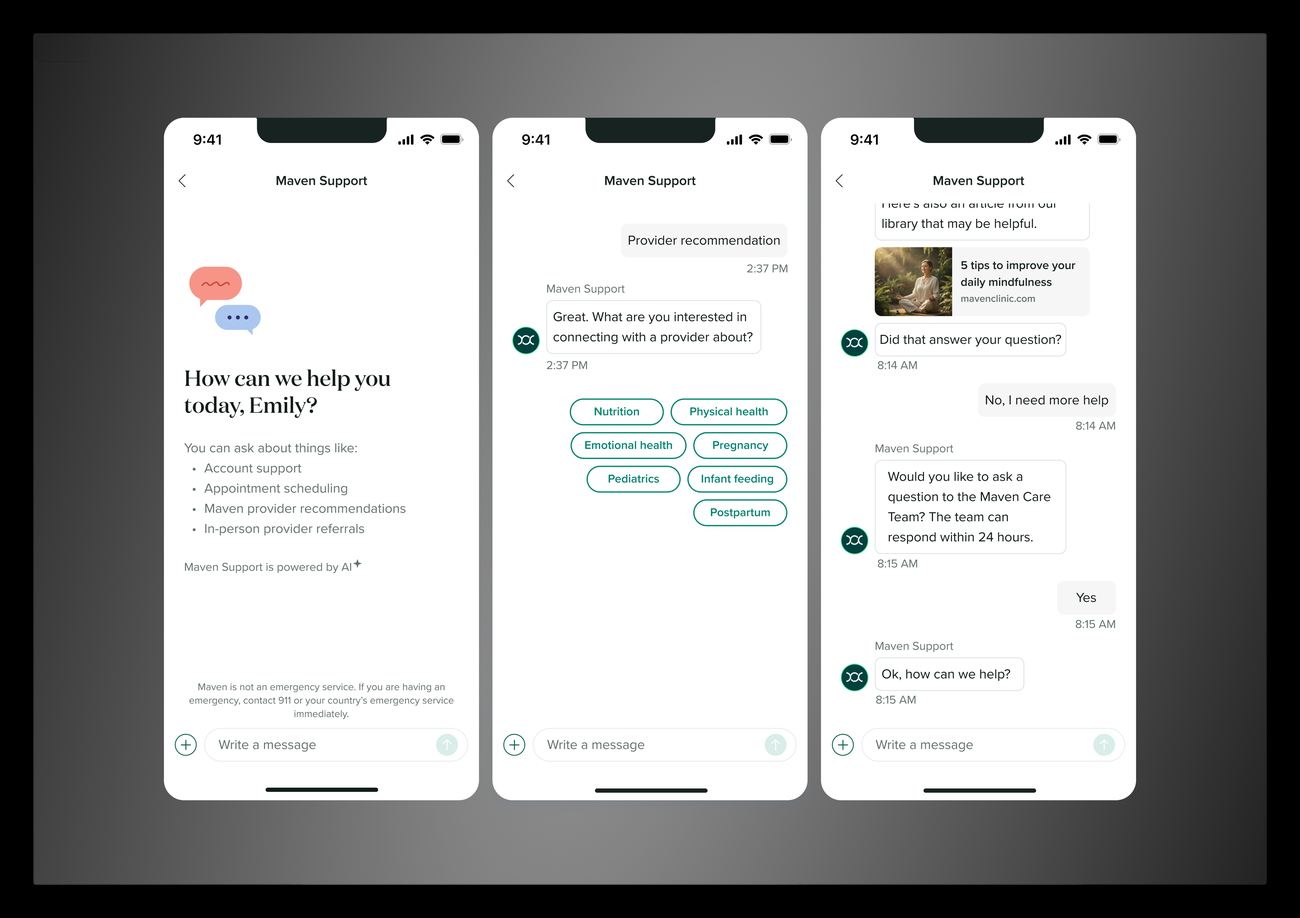
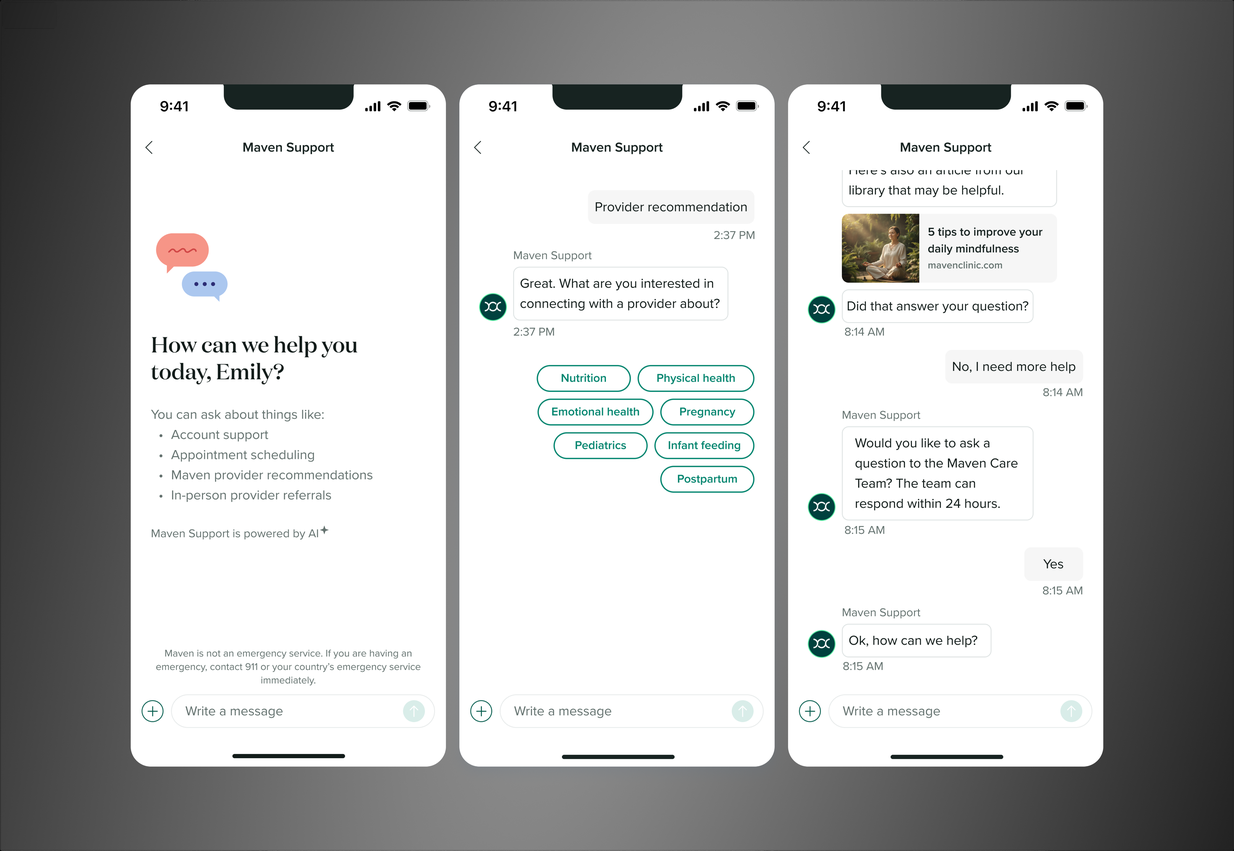
Add shared formatting system across all case study pages
Introduce case-study.css for consistent heading hierarchy (bolder
section headers, mono-uppercase subheads) and a reusable stat block
component pulling key facts into each case study's hero. Break up
long paragraphs, convert one ranked list to bullets, and crop the
letterboxed border out of the support chat hero images.

Changed region(s): [[0.093, 0.093, 0.8989, 0.8989], [0.0, 0.0, 1.0, 1.0]]

diff --git a/fertility-experience.html b/fertility-experience.html
@@ -10,7 +10,7 @@
 <link rel="apple-touch-icon" href="apple-touch-icon.png?v=2">
 <link rel="preconnect" href="https://fonts.googleapis.com">
 <link rel="preconnect" href="https://fonts.gstatic.com" crossorigin>
-<link href="https://fonts.googleapis.com/css2?family=DM+Sans:wght@400;500&family=IBM+Plex+Mono:wght@400;500&display=swap" rel="stylesheet">
+<link href="https://fonts.googleapis.com/css2?family=DM+Sans:wght@400;500;700&family=IBM+Plex+Mono:wght@400;500&display=swap" rel="stylesheet">
 <style>
   :root{
     --ink:#111111;
@@ -433,6 +433,7 @@
     .footer-row .footer-intro{white-space:normal; max-width:38ch;}
   }
 </style>
+<link rel="stylesheet" href="case-study.css">
 </head>
 <body>
 
@@ -464,6 +465,12 @@
       <span class="tag">Oura</span>
       <span class="tag">Fellow</span>
     </div>
+    <div class="cs-stats">
+      <div class="cs-stat"><span class="cs-stat-label">Timeframe</span><span class="cs-stat-value">2025–2026</span></div>
+      <div class="cs-stat"><span class="cs-stat-label">Platform</span><span class="cs-stat-value">iOS · Android · Web</span></div>
+      <div class="cs-stat"><span class="cs-stat-label">Reach</span><span class="cs-stat-value">~30% of Maven users</span></div>
+      <div class="cs-stat"><span class="cs-stat-label">Key metric</span><span class="cs-stat-value">Cycle Tracker onboarding 18% → 24%</span></div>
+    </div>
     <div class="cs-img"><span>Image placeholder</span></div>
   </section>
 
@@ -488,8 +495,8 @@
     <div class="cs-img" style="aspect-ratio:1808/917; margin:32px 0;"><img src="cycle-tracker-homepage-widget.png" alt="Five phone mockups of the Maven Cycle Tracker homepage widget across the menstrual, follicular, ovulation, and luteal phases, plus the pre-onboarding start-tracking state"></div>
     <div class="cs-section" style="padding-top:0;">
       <p>I designed a new card component for Maven's design system, built as a reusable foundation rather than a one-off. I also designed a new way to represent cycle day: a circular indicator that updates dynamically as a user moves through their cycle, instead of a static number or date. Copy stayed short and specific by design, enough to earn a click, not fill space.</p>
-      <p><strong>Not yet onboarded:</strong> made the case for Cycle Tracker's value fast enough to convert someone who hadn't engaged with the feature at all.</p>
-      <p><strong>Already onboarded:</strong> anchored by the circular cycle-day visual, paired with context on what a user might be experiencing at that stage and a phase-specific CTA, so the widget drove action, not just information.</p>
+      <p>Not yet onboarded: made the case for Cycle Tracker's value fast enough to convert someone who hadn't engaged with the feature at all.</p>
+      <p>Already onboarded: anchored by the circular cycle-day visual, paired with context on what a user might be experiencing at that stage and a phase-specific CTA, so the widget drove action, not just information.</p>
 
       <h3>Why it works</h3>
       <p>The widget does three jobs at once: it teaches users what Cycle Tracker actually does and promotes feature adoption, it gives onboarded users a reason to check in regularly, and it routes them to the most relevant action for where they are in their cycle, driving re-engagement.</p>
@@ -499,13 +506,14 @@
       <p>The widget took the top position on the Fertility homepage and has held it since launch, continuing to serve as the primary driver of Cycle Tracker engagement and onboarding for the ~30% of Maven users in that program, lifting Cycle Tracker onboarding from 18% to 24% of users.</p>
 
       <h3>What I'd change</h3>
-      <p><strong>Condition-aware, more sensitive content.</strong> Right now the messaging treats cycle tracking as a physical, mechanical thing. For someone who's been trying to conceive for months without success, that's not the whole experience. There's an emotional weight to it that the current content doesn't account for, and the tone needs to flex for where someone actually is in their journey, not just their cycle day.</p>
-      <p><strong>AI-driven personalization.</strong> The content today is phase-based, not history-based. The next version should use what a user has actually logged: for example, surfacing that they've reported headaches and cramps during this same phase across their last three cycles, instead of only showing generic phase information. That shift, from generic to personalized insight, is where the real value is.</p>
+      <p>Condition-aware, more sensitive content. Right now the messaging treats cycle tracking as a physical, mechanical thing. For someone who's been trying to conceive for months without success, that's not the whole experience. There's an emotional weight to it that the current content doesn't account for, and the tone needs to flex for where someone actually is in their journey, not just their cycle day.</p>
+      <p>AI-driven personalization. The content today is phase-based, not history-based. The next version should use what a user has actually logged: for example, surfacing that they've reported headaches and cramps during this same phase across their last three cycles, instead of only showing generic phase information. That shift, from generic to personalized insight, is where the real value is.</p>
     </div>
 
     <div class="cs-section" style="border-bottom:none; padding-bottom:0;">
       <h2>Initiative 2: Oura Cycle Data Integration</h2>
-      <p>Maven kicked off a partnership with Oura in 2025 to bring wearable data into the platform. I picked up that work and took it further as end-to-end designer, building a member-facing and provider-facing integration that pulls Oura's reproductive cycle data directly into Maven's Cycle Tracker. Oura doesn't have a dedicated fertility or symptom tracker. Maven does. This gave users a way to combine Oura's biometric data with the tracking experience they were already using to try to conceive. The integration is fully built and QA'd, awaiting release.</p>
+      <p>Maven kicked off a partnership with Oura in 2025 to bring wearable data into the platform. I picked up that work and took it further as end-to-end designer, building a member-facing and provider-facing integration that pulls Oura's reproductive cycle data directly into Maven's Cycle Tracker. Oura doesn't have a dedicated fertility or symptom tracker. Maven does.</p>
+      <p>This gave users a way to combine Oura's biometric data with the tracking experience they were already using to try to conceive. The integration is fully built and QA'd, awaiting release.</p>
 
       <h3>The problem</h3>
       <p>Tracking your cycle, whether in Maven or any other app, mostly means logging dates. Dates tell you when your period started. They don't tell you whether or when you actually ovulated, and ovulation is the thing that actually matters for conceiving. Some people turn to ovulation predictor kits to fill that gap, but those come with their own limitations.</p>
@@ -516,10 +524,10 @@
     </div>
     <div class="cs-img" style="aspect-ratio:2195/1220; margin:32px 0;"><img src="oura-cycle-integration.png" alt="Four phone mockups of the Maven x Oura cycle insights update prompt, Oura calendar view with predicted period and fertile window, February 14 cycle day detail sheet, and Oura settings"></div>
     <div class="cs-section" style="padding-top:0;">
-      <p><strong>Ovulation status, made unambiguous.</strong> The core challenge was making sure Fertile Window, Predicted Ovulation, and Confirmed Ovulation were crystal clear: what each one meant, how it showed up as icons in the calendar view, and how it was explained in plain language in the bottom sheet, all while clearly tying the data back to Oura as the source. I designed this new visual and content language to sit naturally inside Maven's existing design system, without a full redesign of Cycle Tracker or the calendar. Since this introduced concepts users hadn't seen before, I ran comprehension testing directly rather than assuming it would land, and all 20 users tested correctly interpreted what the visuals were meant to convey.</p>
-      <p><strong>Settings.</strong> Adding the integration meant new controls users needed to manage, so I took apart the existing Cycle Tracker settings page and rebuilt it to accommodate them cleanly.</p>
-      <p><strong>Provider view in MPractice.</strong> Users weren't the only audience. I designed the equivalent data visualization inside MPractice, Maven's proprietary EMR, where providers already view cycle data. Providers now see the same Oura-sourced cycle data their patient sees, giving care teams the same complete picture during appointments and clinical decision-making.</p>
-      <p><strong>Getting people to connect.</strong> None of this mattered if users didn't know it existed. I designed the promotional action sheets and modals that introduced the integration to members who hadn't yet connected their Oura account, making the case for why they'd want to.</p>
+      <p>Ovulation status, made unambiguous. The core challenge was making sure Fertile Window, Predicted Ovulation, and Confirmed Ovulation were crystal clear: what each one meant, how it showed up as icons in the calendar view, and how it was explained in plain language in the bottom sheet, all while clearly tying the data back to Oura as the source. I designed this new visual and content language to sit naturally inside Maven's existing design system, without a full redesign of Cycle Tracker or the calendar. Since this introduced concepts users hadn't seen before, I ran comprehension testing directly rather than assuming it would land, and all 20 users tested correctly interpreted what the visuals were meant to convey.</p>
+      <p>Settings. Adding the integration meant new controls users needed to manage, so I took apart the existing Cycle Tracker settings page and rebuilt it to accommodate them cleanly.</p>
+      <p>Provider view in MPractice. Users weren't the only audience. I designed the equivalent data visualization inside MPractice, Maven's proprietary EMR, where providers already view cycle data. Providers now see the same Oura-sourced cycle data their patient sees, giving care teams the same complete picture during appointments and clinical decision-making.</p>
+      <p>Getting people to connect. None of this mattered if users didn't know it existed. I designed the promotional action sheets and modals that introduced the integration to members who hadn't yet connected their Oura account, making the case for why they'd want to.</p>
 
       <h3>Accuracy and sign-off</h3>
       <p>Cycle Tracker already pulls from multiple sources: user-logged symptoms, Apple Health, and now Oura. I partnered closely with backend engineering to define how conflicting data between sources would be resolved, and how that resolution would be visualized so users wouldn't see contradictory information with no explanation.</p>
@@ -538,8 +546,8 @@
 
       <h3>What I designed</h3>
       <p>I built two paths into the same offering, since the person discovering it and the person completing it aren't always the same user.</p>
-      <p><strong>For male users:</strong> a flow to learn about the Fellow offering and move straight into ordering the kit, designed to lower the barrier of a topic men are often reluctant to engage with at all.</p>
-      <p><strong>For female fertility users:</strong> a parallel flow to learn about the offering and share it with a male partner, so testing could be introduced by someone already inside the Maven experience instead of requiring the partner to seek it out cold.</p>
+      <p>For male users: a flow to learn about the Fellow offering and move straight into ordering the kit, designed to lower the barrier of a topic men are often reluctant to engage with at all.</p>
+      <p>For female fertility users: a parallel flow to learn about the offering and share it with a male partner, so testing could be introduced by someone already inside the Maven experience instead of requiring the partner to seek it out cold.</p>
     </div>
     <div class="cs-img" style="aspect-ratio:1636/1157; margin:32px 0;"><img src="semen-analysis-partnership.png" alt="Three phone mockups of the Featured Action Card inviting a partner to order a semen analysis kit, the share sheet with fertility stats, and the Tools and Integrations page listing the semen analysis offering"></div>
     <div class="cs-section" style="padding-top:0;">

diff --git a/pcos-nutrition-module.html b/pcos-nutrition-module.html
@@ -10,7 +10,7 @@
 <link rel="apple-touch-icon" href="apple-touch-icon.png?v=2">
 <link rel="preconnect" href="https://fonts.googleapis.com">
 <link rel="preconnect" href="https://fonts.gstatic.com" crossorigin>
-<link href="https://fonts.googleapis.com/css2?family=DM+Sans:wght@400;500&family=IBM+Plex+Mono:wght@400;500&display=swap" rel="stylesheet">
+<link href="https://fonts.googleapis.com/css2?family=DM+Sans:wght@400;500;700&family=IBM+Plex+Mono:wght@400;500&display=swap" rel="stylesheet">
 <style>
   :root{
     --ink:#111111;
@@ -413,6 +413,7 @@
     .footer-row .footer-intro{white-space:normal; max-width:38ch;}
   }
 </style>
+<link rel="stylesheet" href="case-study.css">
 </head>
 <body>
 
@@ -443,6 +444,12 @@
       <span class="tag">Web</span>
       <span class="tag">Homepage</span>
     </div>
+    <div class="cs-stats">
+      <div class="cs-stat"><span class="cs-stat-label">Timeframe</span><span class="cs-stat-value">Spring 2026</span></div>
+      <div class="cs-stat"><span class="cs-stat-label">Platform</span><span class="cs-stat-value">iOS · Android · Web</span></div>
+      <div class="cs-stat"><span class="cs-stat-label">Rollout</span><span class="cs-stat-value">10% of Fertility users</span></div>
+      <div class="cs-stat"><span class="cs-stat-label">Content</span><span class="cs-stat-value">7-part story card series</span></div>
+    </div>
     <div class="cs-img"><span>Image placeholder</span></div>
   </section>
 
@@ -461,10 +468,12 @@
       <p>I designed a homepage module that rotated content over a weekly cycle each time a member logged in. Rotations mixed formats deliberately: some days surfaced an assessment question through a bottom sheet, others prompted a loggable behavior (like a short walk after a meal), and others delivered supportive or educational content. The goal was to make daily engagement feel varied, while quietly capturing data on what users were doing and how they felt about managing their condition.</p>
       <div class="cs-img"><span>Image placeholder</span></div>
       <p>Alongside the module, I designed a story-card carousel, an Instagram Stories-style format, with 7 illustrated card sets going deep on individual nutrition topics (protein was one). This was meant to be a more interactive, higher-retention alternative to a static article for users who wanted to go beyond the daily module.</p>
-      <p>The hardest part was the assessment bottom sheets. They needed to plug into Maven's existing assessment infrastructure, which was tightly coupled to legacy backend architecture never built for this use case. I worked closely with engineering to unwind that constraint and find the simplest path to ship without rebuilding the system underneath it. That tradeoff shaped scope: for this version, questions were limited to checkbox/multiselect and radio/single-select formats, and result screens stayed simple. I scoped and proposed a future version of the assessment UI that supports more question types and more visually developed result pages.</p>
+      <p>The hardest part was the assessment bottom sheets. They needed to plug into Maven's existing assessment infrastructure, which was tightly coupled to legacy backend architecture never built for this use case. I worked closely with engineering to unwind that constraint and find the simplest path to ship without rebuilding the system underneath it.</p>
+      <p>That tradeoff shaped scope: for this version, questions were limited to checkbox/multiselect and radio/single-select formats, and result screens stayed simple. I scoped and proposed a future version of the assessment UI that supports more question types and more visually developed result pages.</p>
       <div class="cs-img"><span>Image placeholder</span></div>
       <p>I also designed a new interaction pattern for activity logging: a “mark as done” button with a distinct completed state, which is now a reusable pattern in Maven's design system.</p>
-      <p>Two things made this bigger than a single feature. First, the module itself was built as a template, not a one-off. The structure is designed to be repurposed for other condition pathways, starting with Endometriosis. Second, it changed what the top of the Fertility homepage does: instead of static content, users now see something dynamic, personalized to their condition, and interactive, which supports Maven's broader positioning shift toward condition-specific care.</p>
+      <p>Two things made this bigger than a single feature. First, the module itself was built as a template, not a one-off. The structure is designed to be repurposed for other condition pathways, starting with Endometriosis.</p>
+      <p>Second, it changed what the top of the Fertility homepage does: instead of static content, users now see something dynamic, personalized to their condition, and interactive, which supports Maven's broader positioning shift toward condition-specific care.</p>
     </div>
     <div class="cs-section">
       <h2>Prototyping as the primary tool</h2>

diff --git a/patients-followed.html b/patients-followed.html
@@ -10,7 +10,7 @@
 <link rel="apple-touch-icon" href="apple-touch-icon.png?v=2">
 <link rel="preconnect" href="https://fonts.googleapis.com">
 <link rel="preconnect" href="https://fonts.gstatic.com" crossorigin>
-<link href="https://fonts.googleapis.com/css2?family=DM+Sans:wght@400;500&family=IBM+Plex+Mono:wght@400;500&display=swap" rel="stylesheet">
+<link href="https://fonts.googleapis.com/css2?family=DM+Sans:wght@400;500;700&family=IBM+Plex+Mono:wght@400;500&display=swap" rel="stylesheet">
 <style>
   :root{
     --ink:#111111;
@@ -421,6 +421,7 @@
     .footer-row .footer-intro{white-space:normal; max-width:38ch;}
   }
 </style>
+<link rel="stylesheet" href="case-study.css">
 </head>
 <body>
 
@@ -449,6 +450,12 @@
       <span class="tag">Web</span>
       <span class="tag">B2B</span>
     </div>
+    <div class="cs-stats">
+      <div class="cs-stat"><span class="cs-stat-label">Timeframe</span><span class="cs-stat-value">2022</span></div>
+      <div class="cs-stat"><span class="cs-stat-label">Platform</span><span class="cs-stat-value">Web (B2B)</span></div>
+      <div class="cs-stat"><span class="cs-stat-label">Team size</span><span class="cs-stat-value">50-person ops team</span></div>
+      <div class="cs-stat"><span class="cs-stat-label">Key metric</span><span class="cs-stat-value">X</span></div>
+    </div>
     <div class="cs-img"><span>Image placeholder</span></div>
   </section>
 
@@ -461,12 +468,21 @@
     <div class="cs-section">
       <h2>The problem</h2>
       <p>Episode Connect, Signify's B2B product, was supposed to be the system of record for all parties involved managing and tracking patients. In practice, users tracked their patients in an Excel spreadsheet and copied the data in after the fact, if they got to it at all.</p>
-      <p>Leadership had built a standard template for the team to use as part of that workflow, but it didn't hold. By the time my team got involved, almost no two people's sheets looked the same. People had forked it, added their own columns, built their own logic for flagging patients they were worried about. Some were sharing these personal versions with managers because they'd become more useful than the actual product. The spreadsheet was the real tool and source of truth. My job was to figure out what the spreadsheet was actually doing for them, and bring that back into the product we owned.</p>
+      <p>Leadership had built a standard template for the team to use as part of that workflow, but it didn't hold. By the time my team got involved, almost no two people's sheets looked the same. People had forked it, added their own columns, built their own logic for flagging patients they were worried about. Some were sharing these personal versions with managers because they'd become more useful than the actual product.</p>
+      <p>The spreadsheet was the real tool and source of truth. My job was to figure out what the spreadsheet was actually doing for them, and bring that back into the product we owned.</p>
     </div>
     <div class="cs-section">
       <h2>Research</h2>
       <p>I ran discovery sessions with a chunk of the 50-person team, then surveyed everyone to get harder data on how people were actually working, what they tracked, how they formatted it, where it broke down.</p>
-      <p>One thing came back clearly. When I asked people to rank what mattered most, almost everyone landed on the same order: current length of stay, current facility, notes from facility conversations, anticipated discharge, and a few other fields further down the list. That ranking became the spec and helped drive the feature prioritization order.</p>
+      <p>One thing came back clearly. When I asked people to rank what mattered most, almost everyone landed on the same order:</p>
+      <ul>
+        <li>current length of stay</li>
+        <li>current facility</li>
+        <li>notes from facility conversations</li>
+        <li>anticipated discharge</li>
+        <li>a few other fields further down the list</li>
+      </ul>
+      <p>That ranking became the spec and helped drive the feature prioritization order.</p>
     </div>
     <div class="cs-section">
       <h2>Design</h2>

diff --git a/support-chat.html b/support-chat.html
@@ -10,7 +10,7 @@
 <link rel="apple-touch-icon" href="apple-touch-icon.png?v=2">
 <link rel="preconnect" href="https://fonts.googleapis.com">
 <link rel="preconnect" href="https://fonts.gstatic.com" crossorigin>
-<link href="https://fonts.googleapis.com/css2?family=DM+Sans:wght@400;500&family=IBM+Plex+Mono:wght@400;500&display=swap" rel="stylesheet">
+<link href="https://fonts.googleapis.com/css2?family=DM+Sans:wght@400;500;700&family=IBM+Plex+Mono:wght@400;500&display=swap" rel="stylesheet">
 <style>
   :root{
     --ink:#111111;
@@ -472,6 +472,7 @@
     .footer-row .footer-intro{white-space:normal; max-width:38ch;}
   }
 </style>
+<link rel="stylesheet" href="case-study.css">
 </head>
 <body>
 
@@ -502,7 +503,13 @@
       <span class="tag">Web</span>
       <span class="tag">AI</span>
     </div>
-    <div class="cs-img" style="aspect-ratio:4641/3276; max-height:none;"><img src="support-chat-hero.png" data-full="support-chat-hero-full.png" alt="Three phone mockups of the Maven Support chat: the support home screen, provider recommendation topic options, and the Maven Care Team handoff with a helpful article" style="max-height:none;"></div>
+    <div class="cs-stats">
+      <div class="cs-stat"><span class="cs-stat-label">Timeframe</span><span class="cs-stat-value">2024–2025</span></div>
+      <div class="cs-stat"><span class="cs-stat-label">Platform</span><span class="cs-stat-value">iOS · Android · Web</span></div>
+      <div class="cs-stat"><span class="cs-stat-label">Scale</span><span class="cs-stat-value">300,000+ tickets/year</span></div>
+      <div class="cs-stat"><span class="cs-stat-label">Outcome</span><span class="cs-stat-value">91% deflection</span></div>
+    </div>
+    <div class="cs-img" style="aspect-ratio:2086/1441; max-height:none;"><img src="support-chat-hero.png" data-full="support-chat-hero-full.png" alt="Three phone mockups of the Maven Support chat: the support home screen, provider recommendation topic options, and the Maven Care Team handoff with a helpful article" style="max-height:none;"></div>
   </section>
 
   <section class="wrap">
@@ -517,7 +524,8 @@
       <p>Behind the scenes, a ticket was formed in Zendesk. The 24/7 Support team triaged it, tagged it, escalated it or self-assigned it, and drafted a reply using macros. Eventually the answer reached the user through the same original Care Advocate message thread, but from someone else entirely, and anywhere from within the hour up to three business days later.</p>
       <p>At the same time, users were expressing the desire to be able to get information for themself more; not everything warranted a back and forth chat with a Care Advocate, they just had a quick question.</p>
       <div class="cs-img"><span>Image placeholder</span></div>
-      <p>The volume made the math unforgiving. Support fielded at least 300,000 tickets a year, and rising. There was no self-serve path. No deflection. Every interaction depended on a human being available to pick it up. That drove up cost to serve and slowed response times across the board, even for the easy cases.</p>
+      <p>The volume made the math unforgiving. Support fielded at least 300,000 tickets a year, and rising.</p>
+      <p>There was no self-serve path. No deflection. Every interaction depended on a human being available to pick it up. That drove up cost to serve and slowed response times across the board, even for the easy cases.</p>
       <p>Maven had no existing model for how AI should handle a conversation this trust-sensitive, at this scale. But it was clear this was the highest-impact opportunity to leverage new technology.</p>
     </div>
     <div class="cs-section">

diff --git a/case-study.css b/case-study.css
@@ -1,0 +1,51 @@
+/* Shared case study formatting system: heading hierarchy + stat block.
+   Loaded after each page's inline <style> block so these rules win on
+   equal specificity without needing to touch the per-page styles. */
+
+.cs-section h2{
+  font-weight:700;
+  font-size:clamp(26px, 3vw, 30px);
+  letter-spacing:-0.01em;
+}
+.cs-section h3{
+  font-family:'IBM Plex Mono', monospace;
+  font-weight:500;
+  font-size:13px;
+  text-transform:uppercase;
+  letter-spacing:0.06em;
+  color:var(--ink-soft);
+  margin:36px 0 12px;
+}
+.cs-section h3:first-of-type{margin-top:0;}
+
+.cs-stats{
+  display:flex;
+  flex-wrap:wrap;
+  gap:26px 40px;
+  margin-top:28px;
+  padding-top:24px;
+  border-top:1px solid var(--line);
+}
+.cs-stat{
+  display:flex;
+  flex-direction:column;
+  gap:5px;
+}
+.cs-stat-label{
+  font-family:'IBM Plex Mono', monospace;
+  font-size:11px;
+  text-transform:uppercase;
+  letter-spacing:0.05em;
+  color:var(--gray);
+}
+.cs-stat-value{
+  font-family:'DM Sans', sans-serif;
+  font-weight:700;
+  font-size:19px;
+  letter-spacing:-0.005em;
+  color:var(--ink);
+}
+
+@media (max-width:640px){
+  .cs-stats{gap:18px 28px;}
+}
